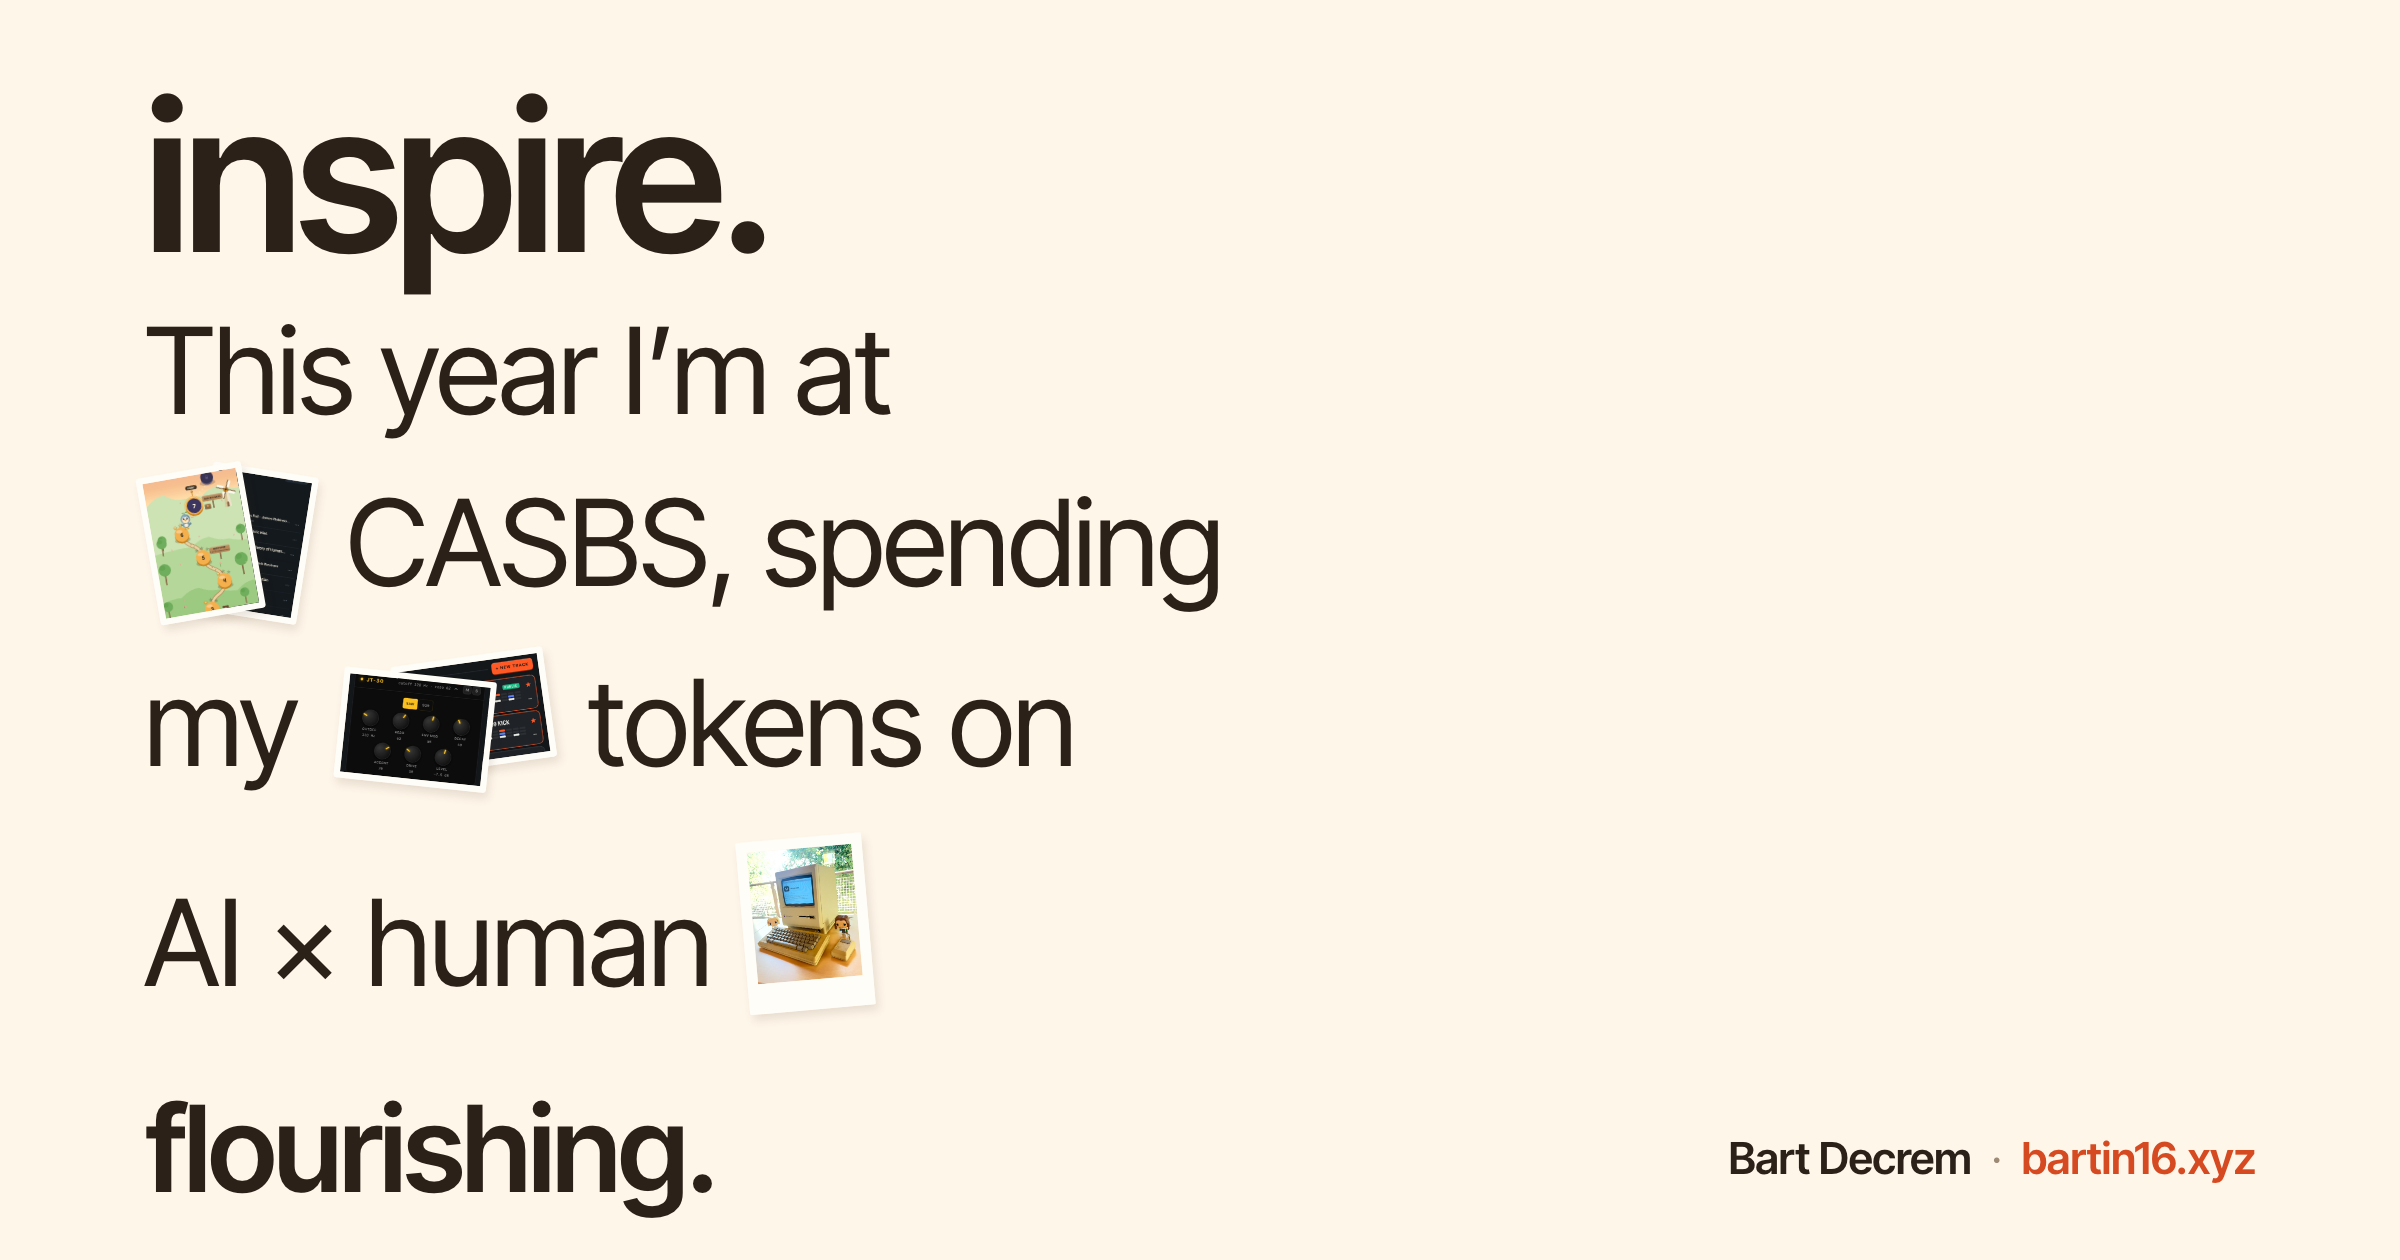
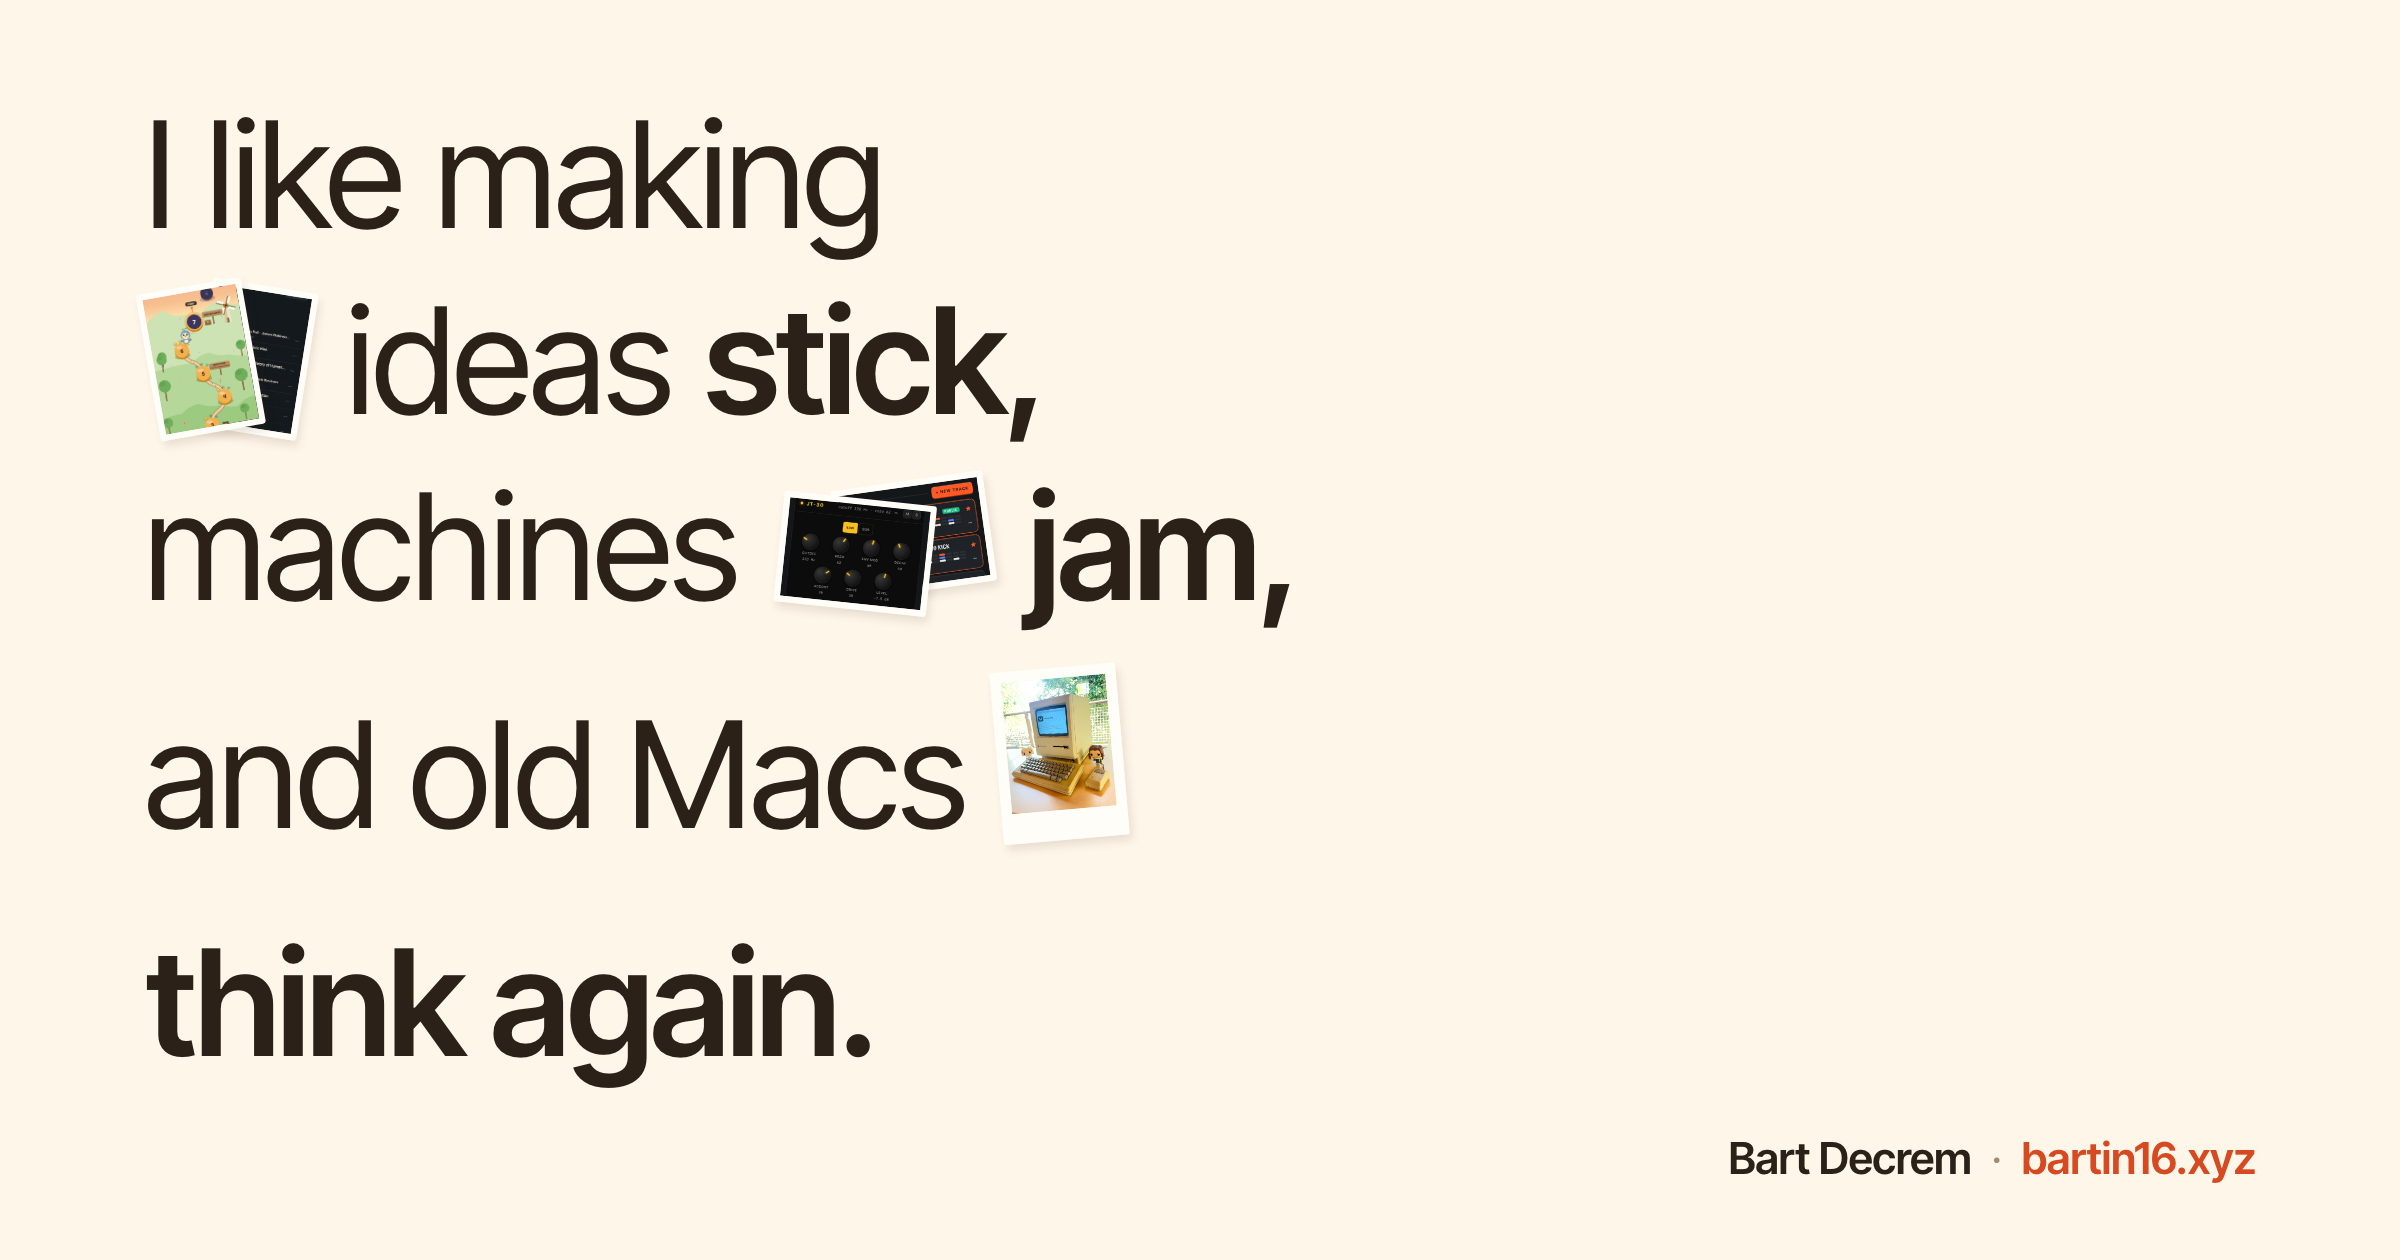
Revert "bartin16 / decremental: "inspire." over the CASBS sentence, photos re-set inline"
This reverts commit 352bec079c03b46b68157874cc5e9f2713a795e9.

Changed region(s): [[0.0625, 0.5262, 0.4688, 0.9905], [0.0625, 0.0619, 0.4375, 0.3405], [0.0625, 0.3714, 0.5625, 0.4952]]

diff --git a/src/app/hi/home.ts b/src/app/hi/home.ts
@@ -1,32 +1,31 @@
-// bartin16.xyz — "Small wonders". One sans voice (Inter Tight) on warm paper: the hero
-// word, then one sentence with the three photo objects linking straight out to the
-// projects. Styles live in `_alts/styles.ts` under `.edition-three`, shared with the
-// /hi/alt4 draft. Copy since 2026-09-12: "inspire." over "This year I’m at CASBS,
-// spending my tokens on AI × human flourishing." (both hosts).
+// bartin16.xyz — "Small wonders". One sans voice (Inter Tight) on warm paper, the three
+// photo objects linking straight out to the projects. Styles live in `_alts/styles.ts`
+// under `.edition-three`, shared with the /hi/alt4 draft.
 const FLOW = `<main class="three-main">
-  <h1 class="three-title">inspire.</h1>
-  <div class="three-letter" aria-label="This year I’m at CASBS, spending my tokens on AI × human flourishing.">
-    <div class="letter-line"><span>This year I’m at</span></div>
-    <div class="letter-line"><a class="inline-object inline-dodo" href="https://dodo.foo" target="_blank" rel="noopener" aria-label="Dodo — dodo.foo"><img class="inline-front" src="/hi/alts/assets/dodo-peck.png" alt="Dodo’s playful Peck learning path"><img class="inline-back" src="/hi/alts/assets/dodo-topics.png" alt="Dodo’s topics library"><span class="object-index mono">dodo.foo ↗</span></a><span><a class="flow-link" href="https://casbs.stanford.edu/" target="_blank" rel="noopener">CASBS</a>, spending</span></div>
-    <div class="letter-line"><span>my</span><a class="inline-object inline-jam" href="https://jambot.to" target="_blank" rel="noopener" aria-label="Jambot — jambot.to"><img class="inline-front" src="/hi/alts/assets/jambot-controls.png" alt="Jambot synth controls"><img class="inline-back" src="/hi/alts/assets/jambot-tracks.png" alt="Jambot track sequencers"><span class="object-index mono">jambot.to ↗</span></a><span>tokens on</span></div>
-    <div class="letter-line"><span>AI × human</span><span class="mac-slot"><a class="inline-object inline-mac" href="https://github.com/bdecrem/Macinclaude/blob/main/README.md" target="_blank" rel="noopener" aria-label="Macinclaude on GitHub"><img src="/hi/alts/assets/mac-plus.jpg" alt="The Macintosh Plus on Bart’s desk"><span class="object-index mono">macinclaude ↗</span></a><a class="object-alt mono" href="/hi/alts/assets/mac-plus.jpg" target="_blank" rel="noopener">full photo ↗</a></span></div>
-    <div class="letter-line last-letter"><span><em>flourishing.</em></span></div>
+  <h1 class="three-title">Hey, I’m Bart.</h1>
+  <div class="three-letter" aria-label="I like making ideas stick, machines jam, and old Macs think again.">
+    <div class="letter-line"><span>I like making</span></div>
+    <div class="letter-line"><a class="inline-object inline-dodo" href="https://dodo.foo" target="_blank" rel="noopener" aria-label="Dodo — dodo.foo"><img class="inline-front" src="/hi/alts/assets/dodo-peck.png" alt="Dodo’s playful Peck learning path"><img class="inline-back" src="/hi/alts/assets/dodo-topics.png" alt="Dodo’s topics library"><span class="object-index mono">dodo.foo ↗</span></a><span>ideas <em>stick,</em></span></div>
+    <div class="letter-line"><span>machines</span><a class="inline-object inline-jam" href="https://jambot.to" target="_blank" rel="noopener" aria-label="Jambot — jambot.to"><img class="inline-front" src="/hi/alts/assets/jambot-controls.png" alt="Jambot synth controls"><img class="inline-back" src="/hi/alts/assets/jambot-tracks.png" alt="Jambot track sequencers"><span class="object-index mono">jambot.to ↗</span></a><span><em>jam,</em></span></div>
+    <div class="letter-line"><span>and old Macs</span><span class="mac-slot"><a class="inline-object inline-mac" href="https://github.com/bdecrem/Macinclaude/blob/main/README.md" target="_blank" rel="noopener" aria-label="Macinclaude on GitHub"><img src="/hi/alts/assets/mac-plus.jpg" alt="The Macintosh Plus on Bart’s desk"><span class="object-index mono">macinclaude ↗</span></a><a class="object-alt mono" href="/hi/alts/assets/mac-plus.jpg" target="_blank" rel="noopener">full photo ↗</a></span></div>
+    <div class="letter-line last-letter"><span><em>think again.</em></span></div>
   </div>
   @@BIO@@
 </main>
 <footer class="three-footer">@@LINKS@@<span class="foot-sep" aria-hidden="true">|</span> <a href="https://decremental.substack.com" target="_blank" rel="noopener">Substack</a><span class="foot-sep" aria-hidden="true">|</span> <a href="https://linkedin.com/in/bartdecrem" target="_blank" rel="noopener">LinkedIn</a><span class="foot-sep" aria-hidden="true">|</span> <a href="https://x.com/bartdecrem" target="_blank" rel="noopener">X</a></footer>`
 
-// The hero and the sentence are the same on both hosts; only the contact block differs.
-// bartin16.xyz is the invitation plus the email and phone number; decremental.com puts
-// the message form behind “talk to you”.
+// bartin16.xyz keeps the email and phone number in the paragraph; decremental.com
+// swaps them for a message form (posts to /api/contact).
+// bartin16.xyz is just the invitation plus the email and phone number; decremental.com
+// keeps the CASBS line and puts the message form behind “talk to you”.
 export const body = FLOW
   .replace('@@LINKS@@', `<a href="/hi/about">About me</a><span class="foot-sep" aria-hidden="true">|</span> <a href="https://decremental.com/projects" target="_blank" rel="noopener">decremental.com</a>`)
   .replace('@@BIO@@', `<div class="three-bottom"><div class="three-bio"><p>Come say hi, especially if you want to talk AI &amp; your work. I’m at <a href="mailto:bdecrem@gmail.com">bdecrem@gmail.com</a> or <a href="sms:6508989508">650-898-9508</a>.</p></div></div>`)
 
-// decremental.com: one line under the sentence, and the message form lives behind "talk to you" in a dialog.
+// decremental.com: one line, and the message form lives behind "talk to you" in a dialog.
 export const bodyWithForm = FLOW
   .replace('@@LINKS@@', `<a href="/hi/about">More about me</a><span class="foot-sep" aria-hidden="true">|</span> <a href="https://decremental.com/projects">All my AI projects</a>`)
-  .replace('@@BIO@@', `<div class="three-bottom"><div class="three-bio"><p>Would love to <button type="button" class="talk-link" data-note>talk to you</button> if you’re into that.</p></div></div>`)
+  .replace('@@BIO@@', `<div class="three-bottom"><div class="three-bio"><p>This year I’m at <a href="https://casbs.stanford.edu/" target="_blank" rel="noopener">CASBS</a>, exploring AI × human flourishing. Would love to <button type="button" class="talk-link" data-note>talk to you</button> if you’re into that.</p></div></div>`)
   + `
 <dialog class="note-dialog">
   <button type="button" class="note-close" data-note-close aria-label="Close">×</button>
@@ -37,19 +36,18 @@ export const bodyWithForm = FLOW
   </form>
 </dialog>`
 
-// A landscape poster of the same hero and sentence, rendered at /hi/card and screenshotted
-// into the LinkedIn image. The three photo objects are lifted straight out of FLOW so they
-// can never drift from the page; only the line breaks change, because a 16:9 frame wants
-// three wide lines where the page wants five narrow ones.
+// A landscape poster of the same sentence, rendered at /hi/card and screenshotted into
+// the LinkedIn image. The three photo objects are lifted straight out of FLOW so they can
+// never drift from the page; only the line breaks change, because a 16:9 frame wants three
+// wide lines where the page wants five narrow ones.
 const OBJECTS = FLOW.match(/<a class="inline-object[\s\S]*?<\/a>/g) as string[]
 const [DODO, JAM, MAC] = OBJECTS
 
 export const cardBody = `<main class="three-main">
-  <h1 class="three-title">inspire.</h1>
-  <div class="three-letter" aria-label="This year I’m at CASBS, spending my tokens on AI × human flourishing.">
-    <div class="letter-line"><span>This year I’m at</span>${DODO}<span>CASBS,</span></div>
-    <div class="letter-line"><span>spending my</span>${JAM}<span>tokens on</span></div>
-    <div class="letter-line last-letter"><span>AI × human</span>${MAC}<span><em>flourishing.</em></span></div>
+  <div class="three-letter" aria-label="I like making ideas stick, machines jam, and old Macs think again.">
+    <div class="letter-line"><span>I like making</span>${DODO}<span>ideas <em>stick,</em></span></div>
+    <div class="letter-line"><span>machines</span>${JAM}<span><em>jam,</em> and old Macs</span></div>
+    <div class="letter-line last-letter">${MAC}<span><em>think again.</em></span></div>
   </div>
 </main>`
 

diff --git a/src/app/hi/_alts/styles.ts b/src/app/hi/_alts/styles.ts
@@ -705,28 +705,14 @@ button:focus-visible,a:focus-visible {
 
 .three-main {
   max-width: 1110px;
-  margin: 64px auto 0;
+  margin: 112px auto 0;
 }
 
-/* The hero: one word, about 1.4x the flow lines, semibold like their emphasis. */
 .three-title {
-  font: 600 clamp(56px,9.4vw,140px)/1 Tight,Arial,sans-serif;
-  letter-spacing: -.035em;
-  color: #2b2118;
-  margin: 0 0 26px;
-}
-
-/* A word in the flow that links out (CASBS): no dressing, clay on hover like the photos' addresses. */
-.flow-link {
-  color: inherit;
-  text-decoration: none;
-  transition: color .2s;
-}
-
-@media (hover: hover) {
-  .flow-link:hover,.flow-link:focus-visible {
-    color: var(--clay);
-  }
+  font: 400 clamp(22px,2.1vw,28px)/1.2 Tight,Arial,sans-serif;
+  letter-spacing: -.02em;
+  color: #6f6152;
+  margin: 0 0 22px;
 }
 
 .three-letter {
@@ -1216,7 +1202,7 @@ textarea.form-field {
     min-height: 105px;
   }
   .three-letter {
-    margin-left: 0;
+    margin-left: 4%;
   }
   .three-bio {
     max-width: none;
@@ -1336,7 +1322,7 @@ textarea.form-field {
     width: 100%;
   }
   .three-title {
-    font-size: clamp(40px,16.5vw,96px);
+    font-size: 21px;
     margin-bottom: 12px;
   }
   .three-letter {
@@ -1465,13 +1451,9 @@ textarea.form-field {
   width: 100%;
 }
 
+.edition-card .three-title,
 .edition-card .three-footer {
   display: none;
-}
-
-.edition-card .three-title {
-  font-size: 124px;
-  margin: 0 0 10px;
 }
 
 .edition-card .three-letter {
@@ -1548,7 +1530,7 @@ textarea.form-field {
     margin-top: 14px;
   }
   .three-title {
-    font-size: min(48px,13.5vw);
+    font-size: 18px;
     margin-bottom: 8px;
   }
   .three-letter {

diff --git a/src/app/hi/route.ts b/src/app/hi/route.ts
@@ -3,7 +3,7 @@ import { body, bodyWithForm, formScript, objectsScript } from './home'
 
 const TITLE = "Hi, I'm Bart in 16"
 const DESCRIPTION =
-  'inspire. This year I’m at CASBS, spending my tokens on AI × human flourishing. Bart Decrem.'
+  'I like making ideas stick, machines jam, and old Macs think again. Bart Decrem, practitioner fellow at CASBS.'
 const URL_BARTIN16 = 'https://bartin16.xyz/'
 const IMAGE = 'https://bartin16.xyz/hi/og.png'
 

diff --git a/src/app/hi/_alts/README.md b/src/app/hi/_alts/README.md
@@ -56,12 +56,6 @@ Unfinished concepts retained for future editing. The existing `src/app/hi/page.t
   "new again." removed, and the footer set in the same warm ink at 13px without the "↗" arrows (they now underline in
   clay on hover). Display tracking on the flow lines is -.016em: anything near -.05em collides "rn" into "m" in
   "learning", in Safari especially. Screenshot both engines after touching it — WebKit is installed for Playwright.
-  Copy since 2026-09-12 (both hosts): the hero is the one word "inspire." (`.three-title`, now 600 weight at about
-  1.4x the flow lines, ink not muted — "Hey, I'm Bart." is gone) over the sentence "This year I'm at CASBS, spending
-  my tokens on AI × human flourishing." with the same three photos inline (Dodo before "CASBS,", Jambot before
-  "tokens", the Mac Plus after "human"); "CASBS" links out through `.flow-link` (no dressing, clay on hover, like the
-  photo addresses). decremental.com's contact line is now just "Would love to talk to you if you're into that."; the
-  card and `scripts/hi/make-og.mjs` show the hero too.
 - `/hi/alt4` — **Room for play**: a chrome 16, draggable project objects, hover reveals, and a small user-initiated rhythm sketch. Edit `../alt4/html.ts`.
 
 The HTML route handlers use the repository’s existing full-document pattern (`/1ziu1wahxw`) so the designs retain their CSS and native browser interactions without inheriting the homepage’s React layout or global Tailwind resets. Both return noindex/nofollow. Their small navigation links only to each other and the original homepage.
